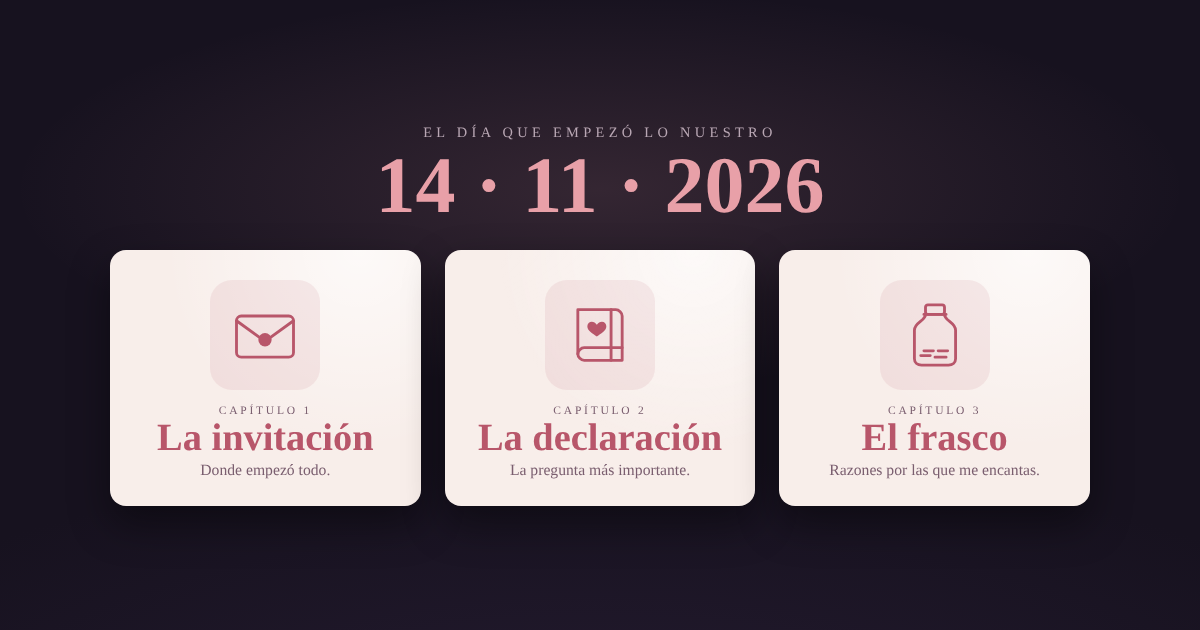
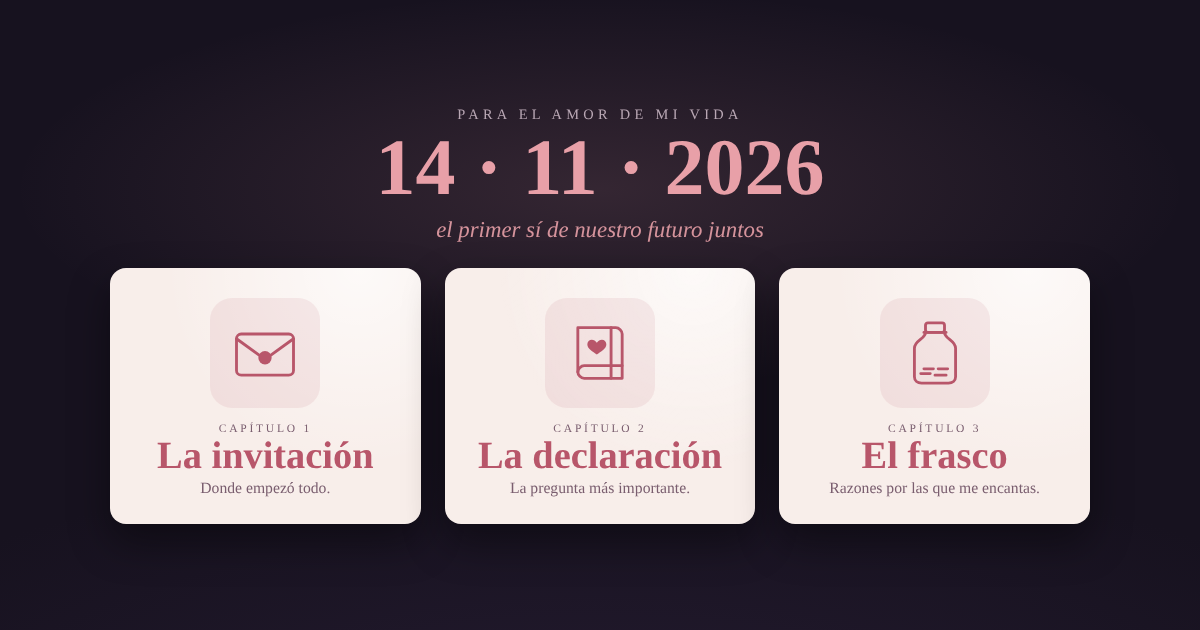
Inicio: Para el amor de mi vida
Claude-Session: https://claude.ai/code/session_01WqeuTAJcrPEzumkahj6Rcc

diff --git a/index.html b/index.html
@@ -4,7 +4,7 @@
 <meta charset="utf-8">
 <meta name="viewport" content="width=device-width, initial-scale=1, viewport-fit=cover">
 <title>14 · 11 · 2026</title>
-<meta name="description" content="El día que empezó lo nuestro.">
+<meta name="description" content="Para el amor de mi vida.">
 <meta name="theme-color" content="#17121f">
 <meta name="apple-mobile-web-app-capable" content="yes">
 <meta name="mobile-web-app-capable" content="yes">
@@ -12,8 +12,8 @@
 <meta name="apple-mobile-web-app-title" content="14 · 11 · 2026">
 <link rel="apple-touch-icon" href="icono.png">
 <link rel="icon" type="image/png" href="icono.png">
-<meta property="og:title" content="El día que empezó lo nuestro · 14 · 11 · 2026">
-<meta property="og:description" content="La invitación, la declaración y el frasco.">
+<meta property="og:title" content="Para el amor de mi vida · 14 · 11 · 2026">
+<meta property="og:description" content="El primer sí de nuestro futuro juntos.">
 <meta property="og:type" content="website">
 <meta property="og:image" content="https://fabio2305.github.io/Invitacion/vista-previa.png">
 <meta property="og:image:width" content="1200">
@@ -67,6 +67,7 @@ body {
 }
 header { display: grid; justify-items: center; text-align: center; gap: .25rem; }
 .k { font-size: clamp(.72rem, .6rem + .4vw, .95rem); letter-spacing: .3em; text-transform: uppercase; color: var(--muted); }
+.sub { margin: .35rem 0 0; font-family: var(--font-display); font-style: italic; font-weight: 300; font-size: clamp(1.05rem, .9rem + .7vw, 1.45rem); color: var(--rose); opacity: .9; text-wrap: balance; }
 h1 { margin: 0; font-family: var(--font-hand); font-weight: 700; font-size: clamp(3rem, 2rem + 4vw, 5rem); line-height: 1; color: var(--rose); }
 
 .cards { list-style: none; margin: 0; padding: 0; width: min(100%, 980px); display: grid; grid-template-columns: repeat(auto-fit, minmax(240px, 1fr)); gap: clamp(14px, 2.4vw, 24px); }
@@ -109,8 +110,9 @@ h1 { margin: 0; font-family: var(--font-hand); font-weight: 700; font-size: clam
 <body>
 <div id="app">
   <header>
-    <span class="k">El día que empezó lo nuestro</span>
+    <span class="k">Para el amor de mi vida</span>
     <h1>14 · 11 · 2026</h1>
+    <p class="sub">el primer sí de nuestro futuro juntos</p>
   </header>
 
   <ol class="cards">
